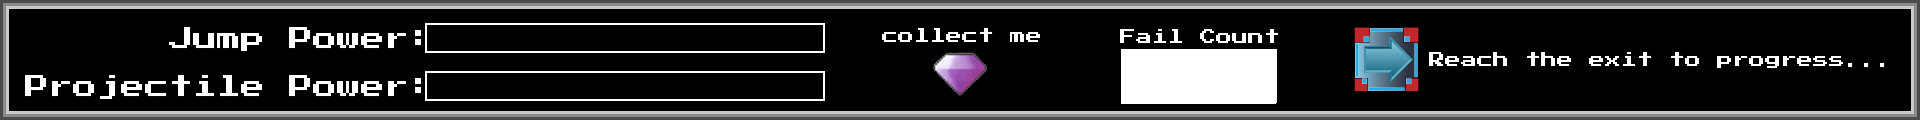
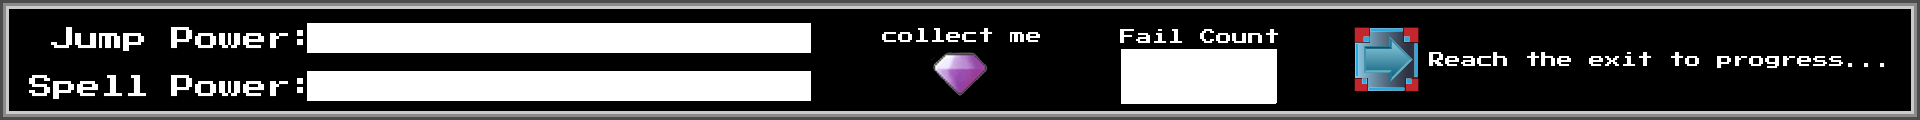
pickup item implemented

Changed region(s): [[0.0, 0.575, 0.4375, 0.85], [0.0312, 0.175, 0.4375, 0.45], [0.0625, 0.225, 0.0938, 0.25]]

diff --git a/mage_madness/main.cpp b/mage_madness/main.cpp
@@ -10,6 +10,7 @@
 #include "enemySpikey.h"
 #include "button.h"
 #include "hud.h"
+#include "pickup.h"
 
 using namespace sf;
 using namespace std;
@@ -55,6 +56,7 @@ std::vector<shared_ptr<Tile>> tiles;
 std::vector<shared_ptr<Projectile>> projectiles;
 std::vector<shared_ptr<Button>> buttons;
 std::shared_ptr<Player> player;
+std::shared_ptr<PickUp> pickup;
 std::shared_ptr<EnemyTurret> enemyTurret;		// ** to do - if adding more turrets then they will need to be stored in a vector like projectiles
 std::shared_ptr<EnemySpikey> enemySpikey;
 std::shared_ptr<TeleProjectile> tp;
@@ -93,6 +95,7 @@ sf::Texture playerTex;
 sf::Texture buttonTex;
 sf::Texture enemyTurTex;
 sf::Texture enemySpikeyTex;
+sf::Texture pickupTex;
 
 Vector2f initialPlayerPosition;
 
@@ -220,7 +223,13 @@ void MoveCursor(float dt) {
 // Left click or controller right shoulder
 void ClickOne(RenderWindow& window) {
 
-	projectiles[0]->fireMe(player->getPosition(), cursor.getPosition(), 2, 500);
+	if (player->getScharge() < 995) {
+		projectiles[0]->fireMe(player->getPosition(), cursor.getPosition(), 1, 500);
+	}
+	else {
+		projectiles[0]->fireMe(player->getPosition(), cursor.getPosition(), 2, 500);
+	}
+	player->projectileReleased();
 }
 
 // right click or controller left shoulder
@@ -318,6 +327,10 @@ void Load() {
 	}
 	// load projectile textures
 	if (!buttonTex.loadFromFile("res/img/Button.png")) {
+		cerr << "Failed to load spritesheet!" << std::endl;
+	}
+	// load collectable textures
+	if (!pickupTex.loadFromFile("res/img/diamond.png")) {
 		cerr << "Failed to load spritesheet!" << std::endl;
 	}
 
@@ -478,7 +491,7 @@ void Reload() {
 			}
 
 			// set player values
-			player->setTexture(playerTex);
+			//player->setTexture(playerTex);
 			player->setPosition({ 100, 100 });
 			// Set enemy turret values
 			enemyTurret->setTexture(enemyTurTex);
@@ -486,6 +499,9 @@ void Reload() {
 			// Set enemy spikey values
 			enemySpikey->setTexture(enemySpikeyTex);
 			enemySpikey->setPosition({ 250,350 });
+			// set collectable
+			pickup = std::make_shared<PickUp>(sf::Vector2f{ 400, 100 });
+			entityManager.list.push_back(pickup);
 
 			break;
 
@@ -829,6 +845,9 @@ void Update(RenderWindow& window) {
 				}
 				
 			}
+			if (event.joystickButton.button == Joystick::V) {
+				player->projectilePressed();
+			}
 		}
 		if (event.type == sf::Event::JoystickButtonReleased) {
 			if (event.joystickButton.button == Joystick::X) {
@@ -841,8 +860,9 @@ void Update(RenderWindow& window) {
 				ClickTwo(window);
 			}
 		}
+		
 
-		// key pressed events
+		// key pressed events ---------------------------------------------
 		if (event.type == sf::Event::KeyPressed)
 		{
 			// player events if playing
@@ -863,7 +883,7 @@ void Update(RenderWindow& window) {
 			}
 		}
 
-		// key released events
+		// key released events ----------------------------------------------
 		if (event.type == sf::Event::KeyReleased)
 		{
 			// player events if playing
@@ -921,6 +941,20 @@ void Update(RenderWindow& window) {
 			}
 		}
 
+		// mouse pressed events ----------------------------------------------
+		if (event.type == sf::Event::MouseButtonPressed)
+		{
+			if (event.mouseButton.button == sf::Mouse::Left) {
+
+				// determine if ingame or main menu
+				if (currState == GameState::playing) {
+
+					// if ingame projectile launch
+					player->projectilePressed();
+				}
+			}
+		}
+		// mouse released events ----------------------------------------------
 		if (event.type == sf::Event::MouseButtonReleased)
 		{
 			if (event.mouseButton.button == sf::Mouse::Left) {
@@ -961,6 +995,7 @@ void Update(RenderWindow& window) {
 
 	// send info to hud
 	hud->JumpX(player->getJcharge());
+	hud->SpellX(player->getScharge());
 
 	// check walls for collision ===========================================================================================================================
 	for (auto s = begin(tiles); s != end(tiles); ++s) {
@@ -1072,6 +1107,13 @@ void Update(RenderWindow& window) {
 					player->setPosition({ pBounds.left, wBounds.top + wBounds.height + 5 });
 				}
 			}
+		}
+
+		// check player agains collectible
+		sf::Vector2f pCentre = { pBounds.left + (pBounds.width * 0.5f), pBounds.top + (pBounds.height * 0.5f) };
+		if (pickup->getGlobalBounds().contains(pCentre)) {
+			pickup->setActive(false);
+			hud->CollectableGained();
 		}
 	}
 	//=======================================================================================================================================================

diff --git a/mage_madness/projectile.cpp b/mage_madness/projectile.cpp
@@ -13,6 +13,7 @@ Projectile::Projectile() : Entity() {
 
 	_dest = {0,0};
 	_isActive = false;
+	_isBouncy = false;
 	_hp = 0;
 	_angleShot = 0;
 	_angleShot2 = 0;
@@ -23,14 +24,22 @@ Projectile::Projectile() : Entity() {
 void Projectile::Update(const float& dt) {
 
 	if (getState()) {
-		if (_hp == 2) {
+
+		if (_isBouncy) {
+			if (_hp == 2) {
+				move({ (cos(_angleShot) * _speed) * dt, 0 });
+				move({ 0, (sin(_angleShot) * _speed) * dt });
+			}
+			else {
+				move({ (cos(_angleShot2) * _speed) * dt, 0 });
+				move({ 0, (sin(_angleShot2) * _speed) * dt });
+			}
+		}
+		else {
 			move({ (cos(_angleShot) * _speed) * dt, 0 });
 			move({ 0, (sin(_angleShot) * _speed) * dt });
 		}
-		else {
-			move({ (cos(_angleShot2) * _speed) * dt, 0 });
-			move({ 0, (sin(_angleShot2) * _speed) * dt });
-		}
+		
 	}
 
 	Entity::Update(dt);
@@ -40,7 +49,7 @@ void Projectile::Update(const float& dt) {
 void Projectile::fireMe(sf::Vector2f startPos, sf::Vector2f destination, int hp, float speed) {
 
 	_isActive = true;
-	_hp = 2;
+	_hp = hp;
 	setColor(Color::Cyan);
 	setPosition(startPos);
 	_dest = destination;
@@ -48,6 +57,13 @@ void Projectile::fireMe(sf::Vector2f startPos, sf::Vector2f destination, int hp,
 
 	_angleShot = atan2(destination.y - getPosition().y, destination.x - getPosition().x);
 	_angleShot2 = -_angleShot;
+
+	if (hp > 1) {
+		_isBouncy = true;
+	}
+	else {
+		_isBouncy = false;
+	}
 }
 
 bool Projectile::getState() {

diff --git a/mage_madness/player.cpp b/mage_madness/player.cpp
@@ -28,9 +28,12 @@ Player::Player() : Entity() {
 
     _isAirborn = false;
     _jumpPressed = false;
+    _spellPressed = false;
 
     _jChargeTime = 0;
     _jChargeUnit = 700;
+    _sChargeTime = 0;
+    _sChargeUnit = 1400;
     
     _movingLeft = false;
     _movingRight = false;
@@ -84,6 +87,12 @@ void Player::Update(const float& dt) {
         }
     }
 
+    if (_spellPressed) {
+        if (_sChargeTime < _maxSpellCharge) {
+
+            _sChargeTime += _sChargeUnit * dt;
+        }
+    }
 
     _velocityY += _gravity;
 
@@ -92,12 +101,13 @@ void Player::Update(const float& dt) {
 
 void Player::projectilePressed() {
 
-    
+    _spellPressed = true;
 }
 
 void Player::projectileReleased() {
 
-    
+    _spellPressed = false;
+    _sChargeTime = 0;
 }
 
 void Player::jumpPressed() {
@@ -122,6 +132,10 @@ void Player::jumpReleased() {
 
 float Player::getJcharge() {
     return _jChargeTime;
+}
+
+float Player::getScharge() {
+    return _sChargeTime;
 }
 
 void Player::resetJump() {

diff --git a/mage_madness/pickup.cpp b/mage_madness/pickup.cpp
@@ -1,0 +1,31 @@
+#include "pickup.h"
+#include "cloud.h"
+
+using namespace sf;
+using namespace std;
+
+
+PickUp::PickUp(sf::Vector2f pos) : Entity() {
+
+	setTextureRect(IntRect(Vector2(0, 0), Vector2(58,58)));
+	setTexture(pickupTex);
+	setPosition(pos);
+
+}
+
+void PickUp::Update(const float& dt) {
+
+
+	Entity::Update(dt);
+}
+
+void PickUp::Render(sf::RenderWindow& window) {
+
+	if (_isActive) {
+		Renderer::queue(this);
+	}
+}
+
+void PickUp::setActive(bool val) {
+	_isActive = val;
+}

diff --git a/mage_madness/hud.cpp b/mage_madness/hud.cpp
@@ -32,7 +32,7 @@ HUD::HUD() : Entity() {
 
 void HUD::Update(const float& dt) {
 
-	_spellRect.setSize({ 0,26 });
+	_spellRect.setSize({ _spellBarX,26 });
 	_jumpRect.setSize({ _jumpBarX,26 });
 
 	Entity::Update(dt);
@@ -58,8 +58,12 @@ void HUD::JumpX(float val) {
 	
 }
 
-void HUD::SpellX() {
+void HUD::SpellX(float val) {
 
+	if (val > 0) {
+		_spellBarX = val / 2;
+	}
+	else { _spellBarX = 0; }
 }
 
 void HUD::Render(sf::RenderWindow& window) {

diff --git a/mage_madness/player.h b/mage_madness/player.h
@@ -14,8 +14,13 @@ protected:
     float _jChargeTime;
     float _jChargeUnit;
 
+    const float _maxSpellCharge = 1000;
+    float _sChargeTime;
+    float _sChargeUnit;
+
     bool _isAirborn;
     bool _jumpPressed;
+    bool _spellPressed;
     bool _movingLeft;
     bool _movingRight;
 
@@ -43,4 +48,5 @@ public:
     float getVelX();
     float getVelY();
     float getJcharge();
+    float getScharge();
 };

diff --git a/mage_madness/pickup.h b/mage_madness/pickup.h
@@ -1,0 +1,22 @@
+#pragma once
+#include "entity_management.h"
+#include <SFML/Graphics.hpp>
+
+class PickUp: public Entity {
+protected:
+
+    bool _isActive;
+
+public:
+    //Constructor
+    PickUp(sf::Vector2f pos);
+
+    //Update
+    void Update(const float& dt) override;
+    //Render
+    void Render(sf::RenderWindow& window) override;
+
+    // methods
+    void setActive(bool val);
+
+};

diff --git a/mage_madness/cloud.h b/mage_madness/cloud.h
@@ -22,6 +22,7 @@ extern sf::Texture buttonTex;
 
 extern sf::Texture hudBaseTex;
 extern sf::Texture hudOverTex;
+extern sf::Texture pickupTex;
 
 extern sf::Font pixFont;
 

diff --git a/mage_madness/hud.h b/mage_madness/hud.h
@@ -27,6 +27,6 @@ public:
     void AddFail();
     void CollectableGained();
     void JumpX(float val);
-    void SpellX();
+    void SpellX(float val);
 
 };

diff --git a/mage_madness/projectile.h b/mage_madness/projectile.h
@@ -7,6 +7,7 @@ class Projectile : public Entity {
 protected:
 
     bool _isActive;
+    bool _isBouncy;
     int _hp;
     sf::Vector2f _dest;
 
